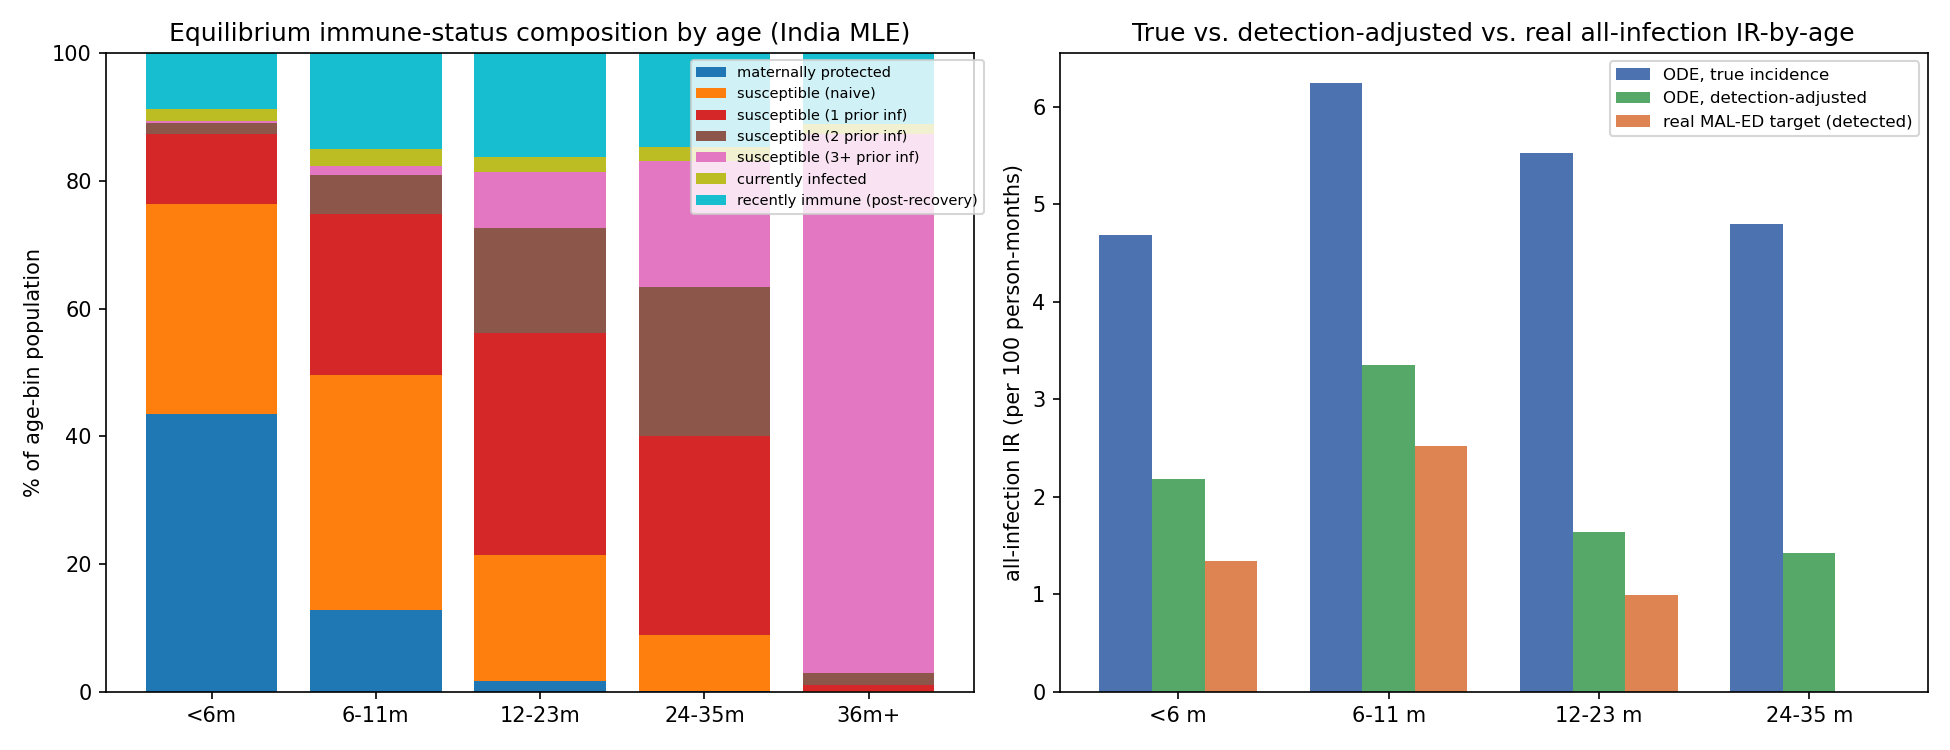
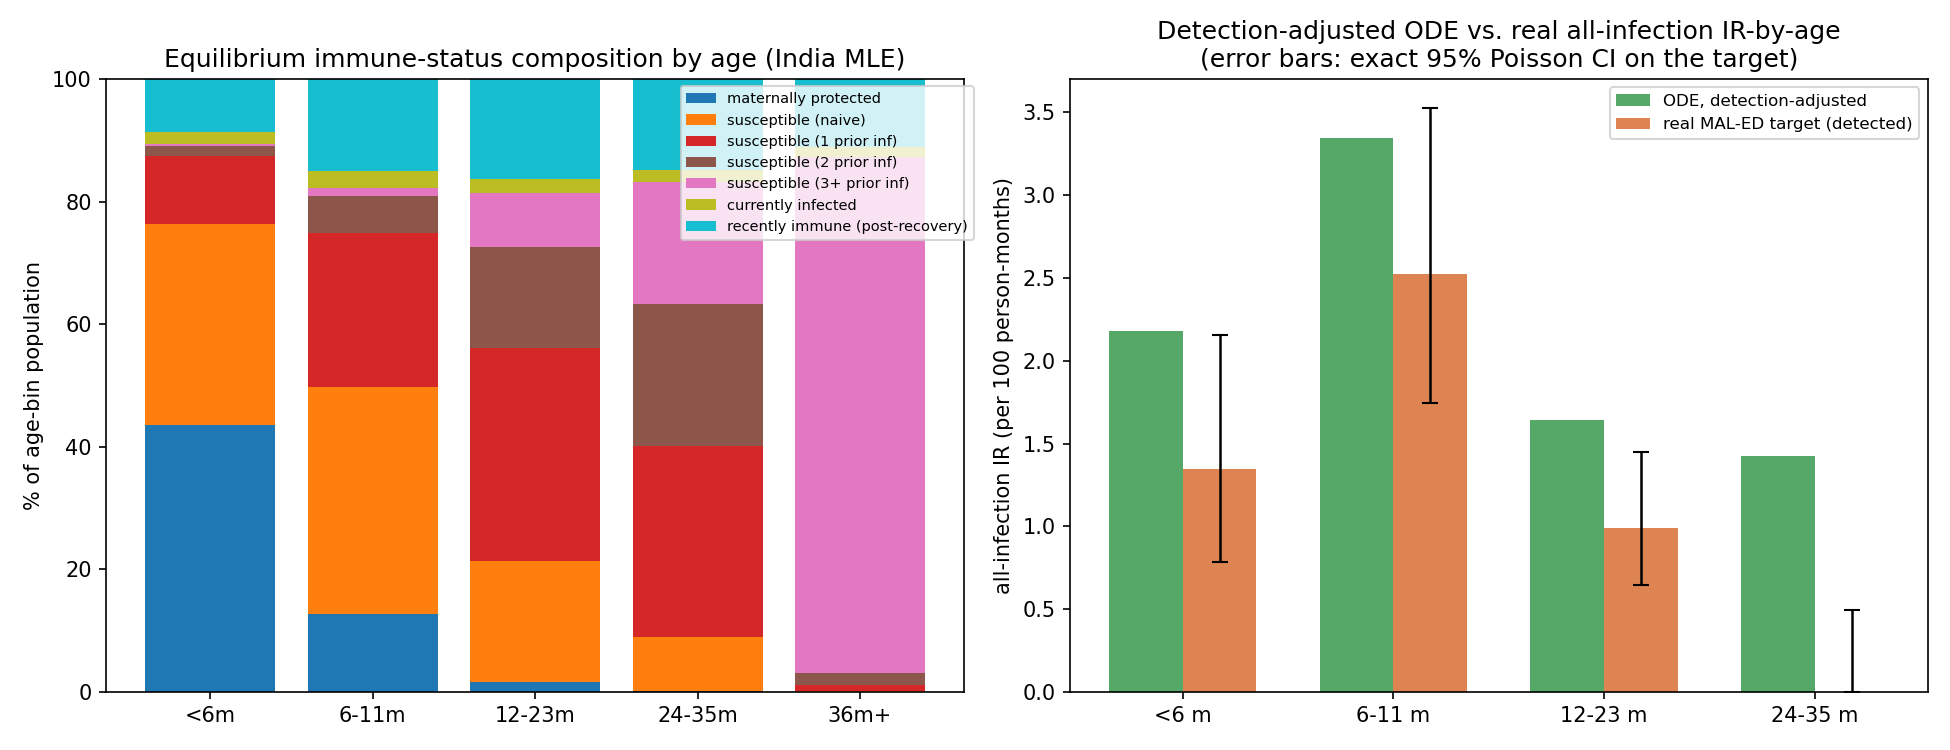
exp55: add Poisson error bars on the target, discount 24-35m, drop distracting raw bars
Adds exact (Garwood) Poisson 95% CIs to the real MAL-ED target, computed
from its raw case counts (handles the 0-count 24-35m bin correctly).
Result: <6m and 6-11m are at-or-inside the target's CI once sampling noise
in the sparse cohort is accounted for -- a materially better picture than
the point comparison suggested. 12-23m remains a real, moderate
discrepancy. 24-35m is discounted per AK (only 746 person-months, the
least of the four bins -- low power regardless of the CI math). Also drops
the raw ODE true-incidence bars from the comparison figure (distracting;
the detection-adjusted vs target comparison is the one that matters).

diff --git a/calibration/experiments/55_india_age_structured_ode/run.py b/calibration/experiments/55_india_age_structured_ode/run.py
@@ -18,6 +18,7 @@ ode_model_age.py for the age-structured mechanics.
 """
 import sys, pathlib
 import numpy as np, pandas as pd
+from scipy.stats import chi2
 import matplotlib
 matplotlib.use('Agg')
 import matplotlib.pyplot as plt
@@ -94,21 +95,35 @@ DET_ASYMP = {'<6m': (SHED_DAYS / MONTHLY_D) * EIA_SENS,            # ~0.363
 P_SYMP_AGE = {'<6m': float(MLE_ROW['p_symp_age_0_6']), '6-11m': float(MLE_ROW['p_symp_age_6_11']),
               '12-23m': float(MLE_ROW['p_symp_age_12plus']), '24-35m': float(MLE_ROW['p_symp_age_12plus'])}
 
+def poisson_exact_ci(cases, pt, scale=100.0, alpha=0.05):
+    """Exact ("Garwood") Poisson CI on a rate cases/pt * scale, from the count alone --
+    handles cases=0 correctly (lower=0, finite upper), unlike a sqrt(cases) Wald SE."""
+    lo = 0.5 * chi2.ppf(alpha / 2, 2 * cases) if cases > 0 else 0.0
+    hi = 0.5 * chi2.ppf(1 - alpha / 2, 2 * (cases + 1))
+    return lo / pt * scale, hi / pt * scale
+
+
 target = P.load_ir_all_targets('india')
 print("\n=== Model TRUE incidence vs. detection-adjusted vs. real (detected) target, ir per 100pm ===")
 detected_vals = {}
+target_ci = {}
 for _, r in df.iterrows():
     b = r['age_bin']
     if b == '36m+':
         continue
     tgt_label = {'<6m': '<6 m', '6-11m': '6-11 m', '12-23m': '12-23 m', '24-35m': '24-35 m'}[b]
     tgt = target.loc[tgt_label, 'IR']
+    cases = int(target.loc[tgt_label, 'cases']); pt = float(target.loc[tgt_label, 'PT'])
+    ci_lo, ci_hi = poisson_exact_ci(cases, pt)
+    target_ci[b] = (ci_lo, ci_hi)
     psymp = P_SYMP_AGE[b]
     det_prob = psymp * DET_SYMP + (1 - psymp) * DET_ASYMP[b]
     detected = r['ir_all_per_100pm'] * det_prob
     detected_vals[b] = detected
+    in_ci = ci_lo <= detected <= ci_hi
     print(f"  {b:8s}  true={r['ir_all_per_100pm']:.3f}  det_prob={det_prob:.3f}  "
-          f"detected={detected:.3f}  target={tgt:.3f}  ratio={detected/tgt if tgt>0 else float('nan'):.2f}")
+          f"detected={detected:.3f}  target={tgt:.3f} (95% exact CI [{ci_lo:.3f}, {ci_hi:.3f}], "
+          f"n={cases} cases/{pt:.0f}pm)  model_in_CI={in_ci}")
 
 # ---- Figure 1: stacked compartment shares by age bin ----
 fig, axes = plt.subplots(1, 2, figsize=(13, 5))
@@ -129,19 +144,23 @@ axes[0].set_title("Equilibrium immune-status composition by age (India MLE)")
 axes[0].legend(fontsize=7, loc='upper right', bbox_to_anchor=(1.02, 1.0))
 axes[0].set_ylim(0, 100)
 
-# ---- Figure 2: TRUE model incidence vs. detection-adjusted vs. real (detected) target ----
+# ---- Figure 2: detection-adjusted ODE vs. real (detected) target, with Poisson error
+# bars on the target. Raw ODE true-incidence bars dropped (AK: distracting -- the
+# comparison that actually matters is detection-adjusted vs. target); still printed
+# above and in outputs/equilibrium_by_age.csv for anyone who wants them.
 age_order = ['<6m', '6-11m', '12-23m', '24-35m']
 tgt_labels_ordered = ['<6 m', '6-11 m', '12-23 m', '24-35 m']
 tgt_vals = [target.loc[t, 'IR'] for t in tgt_labels_ordered]
-true_vals = [df.set_index('age_bin').loc[b, 'ir_all_per_100pm'] for b in age_order]
 det_vals = [detected_vals[b] for b in age_order]
 x = np.arange(4)
-axes[1].bar(x - 0.25, true_vals, width=0.25, label='ODE, true incidence', color='#4C72B0')
-axes[1].bar(x, det_vals, width=0.25, label='ODE, detection-adjusted', color='#55A868')
-axes[1].bar(x + 0.25, tgt_vals, width=0.25, label='real MAL-ED target (detected)', color='#DD8452')
+tgt_err_lo = [tgt_vals[i] - target_ci[b][0] for i, b in enumerate(age_order)]
+tgt_err_hi = [target_ci[b][1] - tgt_vals[i] for i, b in enumerate(age_order)]
+axes[1].bar(x - 0.175, det_vals, width=0.35, label='ODE, detection-adjusted', color='#55A868')
+axes[1].bar(x + 0.175, tgt_vals, width=0.35, label='real MAL-ED target (detected)', color='#DD8452',
+            yerr=[tgt_err_lo, tgt_err_hi], capsize=4, ecolor='black', error_kw=dict(elinewidth=1.2))
 axes[1].set_xticks(x); axes[1].set_xticklabels(tgt_labels_ordered)
 axes[1].set_ylabel('all-infection IR (per 100 person-months)')
-axes[1].set_title('True vs. detection-adjusted vs. real all-infection IR-by-age')
+axes[1].set_title('Detection-adjusted ODE vs. real all-infection IR-by-age\n(error bars: exact 95% Poisson CI on the target)')
 axes[1].legend(fontsize=8)
 
 plt.tight_layout()

diff --git a/calibration/experiments/55_india_age_structured_ode/SUMMARY.md b/calibration/experiments/55_india_age_structured_ode/SUMMARY.md
@@ -19,7 +19,7 @@ susceptibility at all:
 | 24-35m | 0.2% | 8.7% | 31.2% | 23.2% | 19.9% | 1.58 |
 | 36m+ | 0.0% | 0.1% | 1.1% | 1.9% | 84.3% | 2.95 |
 
-![Equilibrium immune-status composition by age, and true vs detection-adjusted vs real all-infection IR-by-age](figures/age_structured_equilibrium.png)
+![Equilibrium immune-status composition by age, and detection-adjusted vs real all-infection IR-by-age with 95% Poisson CIs on the target](figures/age_structured_equilibrium.png)
 ![Equilibrium mean infection count by age](figures/mean_prior_infections_by_age.png)
 
 By age 3, nearly everyone (97%, and 84% specifically at the "3+" floor
@@ -40,12 +40,23 @@ asymptomatic 0.363 for `<12mo` monthly surveillance, dropping to 0.121 for
 `>=12mo` quarterly surveillance — see Observations) to the ODE's true
 incidence, using the MLE's own fitted `p_symp` by age, shrinks the ratio
 from 2.5-5.6x down to **1.3-1.7x** (detection-adjusted 2.18/3.35/1.64/1.43
-vs target 1.35/2.52/0.99/0.00). **That's a real, substantial narrowing, not
-a close match** — every bin is still 30-70% too high, and the 24-35m bin is
-qualitatively wrong in a different way (target is 0 cases; the ODE predicts
-a still-substantial 1.4 detection-adjusted rate there). The detection
-adjustment identifies a genuine, correctly-signed piece of the gap; it is
-not the whole explanation.
+vs target 1.35/2.52/0.99/0.00).
+
+**Adding exact Poisson confidence intervals on the target** (from its raw
+case counts — 17/34/26/0 cases in 1264/1348/2629/746 person-months; the
+Garwood exact method, which handles the 0-count bin correctly) sharpens
+this further: the `6-11m` detection-adjusted value (3.35) is **inside** the
+target's 95% CI ([1.75, 3.53]); `<6m` (2.18) sits just barely outside its CI
+upper bound (2.15); `12-23m` (1.64) is moderately outside ([0.65, 1.45]);
+`24-35m` (1.43) is clearly outside its (necessarily very tight, 0-count) CI
+([0, 0.49]) — but AK's read is that `24-35m` should largely be discounted
+regardless: only 746 person-months of data (the smallest of the four bins,
+roughly half `<6m`'s and a third `6-11m`'s), so this bin has little power to
+distinguish models in the first place, independent of the CI math. Treating
+`24-35m` as low-information rather than a real target, the picture is: 2 of
+the remaining 3 bins (`<6m`, `6-11m`) are at or inside the plausible range
+once sampling noise is accounted for, and `12-23m` is the one bin with a
+real, moderate, unresolved discrepancy.
 
 ## Observations
 
@@ -83,19 +94,23 @@ not the whole explanation.
    overall detection probabilities of 0.465/0.537/0.297/0.297 for the four
    bins, and applying those to the ODE's true incidence is what produces the
    1.3-1.7x (not 2-5x) residual ratio above.
-4. **The remaining 1.3-1.7x gap is NOT resolved by this experiment** — it
-   is smaller than the raw mismatch, correctly signed, and worth reporting,
-   but calling it "close" (an earlier draft of this SUMMARY did) overstated
-   it, per AK's direct pushback on the figure. Candidates for the remaining
-   gap, not disentangled here: (a) genuine approximation error in this ODE
-   reduction (the per-age-bin single-exponential exit rate, the Erlang-chain
-   maternal approximation, no between-individual heterogeneity); (b) the
-   24-35m bin's real target is based on a very small sample (0 cases in 746
-   person-months per `load_ir_all_targets`), so a real-vs-model comparison
-   there may just be dominated by sampling noise rather than a genuine
-   model gap; (c) some other simplification in how this ODE's order/age
-   dynamics interact with the true ABM's discrete, individual-level process
-   that a mean-field reduction can't capture exactly.
+4. **With Poisson sampling error on the target included, plus discounting
+   `24-35m` as low-power (only 746 person-months, the least of the four
+   bins), the picture is: 2 of 3 informative bins check out.** `<6m` and
+   `6-11m` are at-or-inside the target's 95% exact CI — not distinguishable
+   from the data given how few cases the sparse MAL-ED cohort actually
+   observed. `12-23m` remains genuinely, moderately outside its CI — a real
+   discrepancy, not sampling noise. Calling the pre-CI comparison "close"
+   (an earlier draft of this SUMMARY did) overstated it at the time, per
+   AK's direct pushback on the figure; the CI-corrected, `24-35m`-discounted
+   version is a more defensible characterization, but `12-23m` is still
+   unresolved. Candidates for that remaining `12-23m` gap, not disentangled
+   here: (a) genuine approximation error in this ODE reduction (the
+   per-age-bin single-exponential exit rate, the Erlang-chain maternal
+   approximation, no between-individual
+   heterogeneity); (b) some other simplification in how this ODE's
+   order/age dynamics interact with the true ABM's discrete, individual-
+   level process that a mean-field reduction can't capture exactly.
 5. **This does NOT change exp53/54's extinction-mechanism conclusions.**
    Those relied on relative comparisons across parameter points (R0, Re at
    the trough, trough case counts) that are unaffected by a detection-layer
@@ -111,8 +126,8 @@ not the whole explanation.
   post-wave trough exp50/51/53/54 identified — directly testable by
   comparing extinction rates with vs. without equilibrium-initialization at
   the same N=40,000.
-- **Pin down the remaining 1.3-1.7x gap** (observation 4) before treating
-  the detection-adjusted IR-by-age numbers as quantitatively validated —
+- **Pin down the `12-23m` gap** (observation 4) before treating the
+  detection-adjusted IR-by-age numbers as quantitatively validated there —
   e.g. run the real ABM at the MLE parameters and directly tabulate its own
   `ir_all_by_age` output for comparison, rather than relying solely on this
   reduction's approximation.
